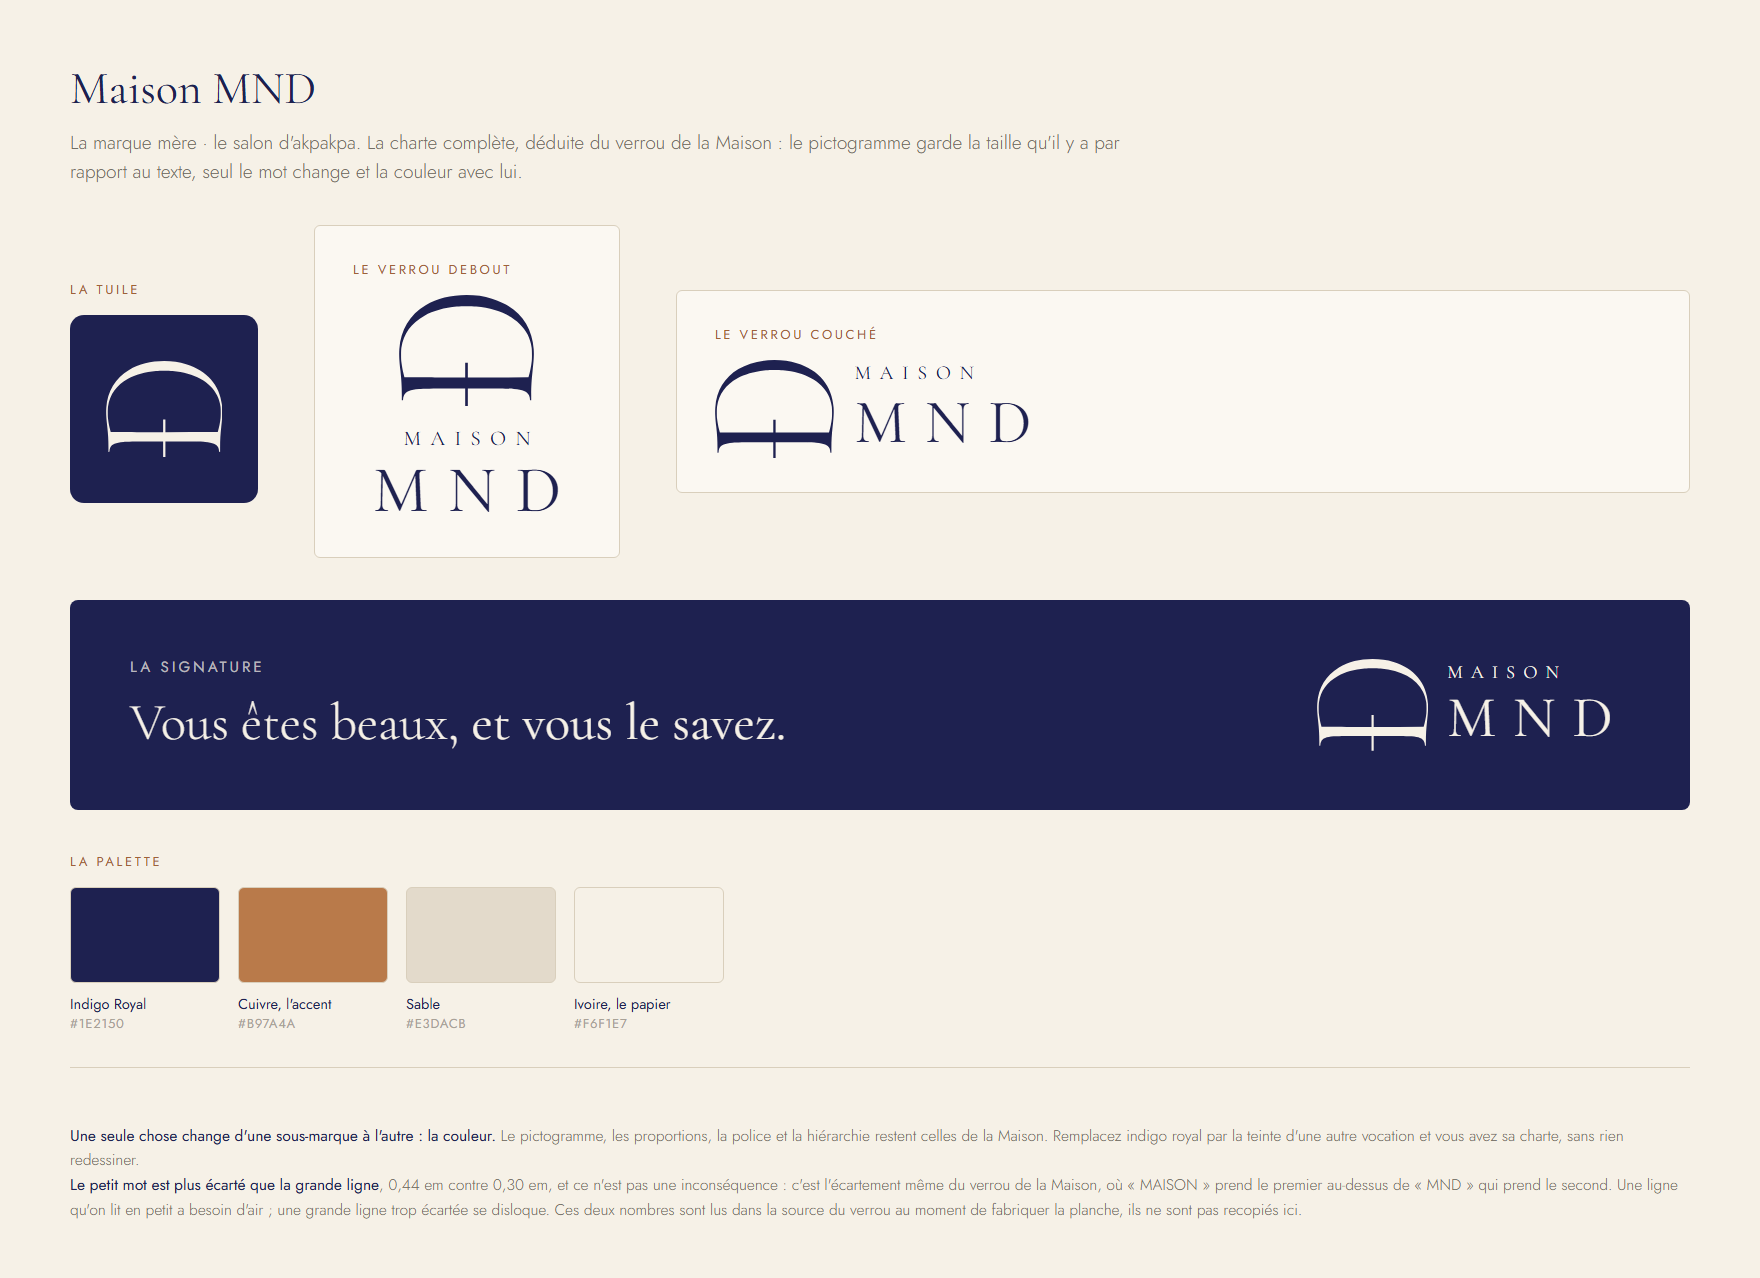
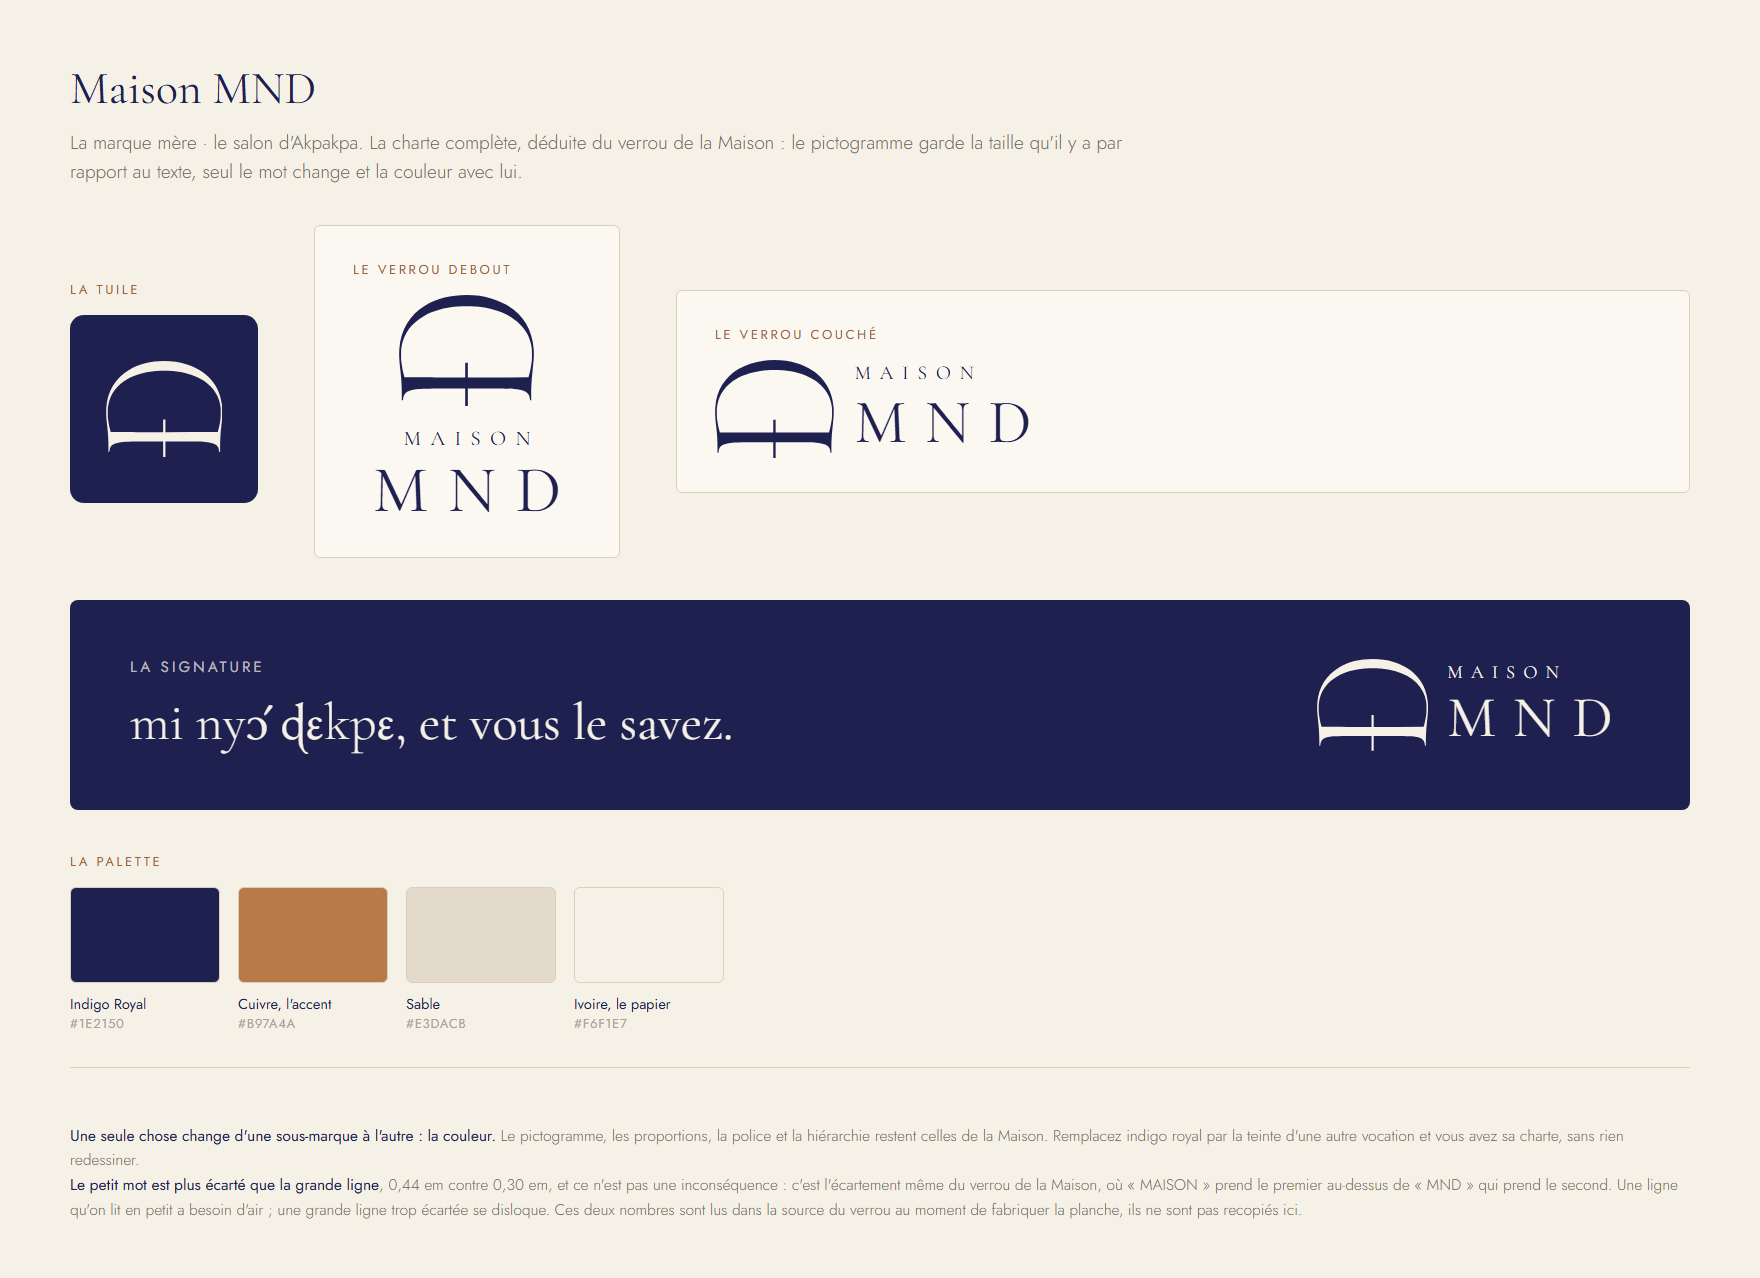
marque et vitrine : la devise en fon sur la charte, et la ligne d'accord retiree
Yeman : « la signature de cette marque change avec le slogan en Fon » et
« supprime la phrase : Des clientes de la Maison, photographiees avec leur
accord sur le site ».

LA CHARTE DE LA MAISON PORTE LA DEVISE, ET NON SA TRADUCTION. La signature
prolonge le fon sans le traduire, une seule phrase a travers deux langues,
comme DEVISE_COMPLETE. Cormorant ne porte ni ɔ ni ɖ ni ɛ, mais la Maison a
taille pour elles un sous-ensemble d'EB Garamond, enferme par unicode-range
aux seules lettres fon : les planches l'embarquent desormais comme le site.
Un controle rend les trois lettres une fois avec cette pile et une fois sans ;
si les deux encres tombent pareil, la police n'a rien dessine et la planche
est refusee. Mesure : 241x198 px avec, 299x179 sans.

La ligne « Des clientes de la Maison, photographiees avec leur accord » quitte
l'accueil. L'ACCORD LUI-MEME NE CHANGE PAS : chaque photo reste inscrite au
registre avant d'etre servie, et le harnais le verifie. C'est l'annonce qui se
tait, pas la regle. Le champ devient facultatif, pour qu'une section sans
ligne ne pose pas un paragraphe vide, et le commentaire du generateur, qui
annoncait encore cinq clientes, est remis a jour.

UN DEFAUT TROUVE EN CHEMIN, ET IL ECRIVAIT MAL LE NOM DE LA MAISON. Les
chapeaux des chartes passaient par `.capitalize()`, qui met la premiere lettre
en capitale ET ECRASE TOUTES LES AUTRES : il sortait « le salon d'akpakpa » et,
[…]

Changed region(s): [[0.1562, 0.0915, 0.625, 0.1221], [0.0625, 0.5493, 0.4375, 0.5798]]

diff --git a/src/apps/revelateur/contenu-types.ts b/src/apps/revelateur/contenu-types.ts
@@ -83,7 +83,11 @@ export type Accueil = {
       et les mots de leurs semblables prouvent ensemble. Chaque fichier est
       inscrit au registre docs/site-revelateur/photos.md avant d'être servi ;
       le harnais le vérifie. Aucun prénom. */
-  couronnes: { sur: string; titre: string; ligne: string; images: string[] };
+  /** `ligne` est FACULTATIVE depuis le 26 septembre 2026 : Yéman l'a
+      retirée du site. L'accord des clientes n'a pas changé, il reste
+      inscrit au registre ; c'est le fait de l'ANNONCER sur la page qui
+      s'arrête. Absente, la section ne pose pas de paragraphe vide. */
+  couronnes: { sur: string; titre: string; ligne?: string; images: string[] };
   portes: { sur: string; titre: string; cartes: { titre: string; ligne: string; suite: string; vers: string; image?: string }[]; repli: string; repliBouton: Lien };
   confiance: { sur: string; citation: string; gages: { titre: string; ligne: string }[] };
   fondateurs: { sur: string; titre: string; ligne: string; message: string; trois: string[]; image: string };

diff --git a/src/apps/revelateur/contenu.ts b/src/apps/revelateur/contenu.ts
@@ -243,7 +243,6 @@ export const ACCUEIL: Accueil = {
   couronnes: {
     sur: 'Nos clientes',
     titre: 'Celles qui nous font confiance.',
-    ligne: 'Des clientes de la Maison, photographiées avec leur accord.',
     /* MÊME ÉCHELLE, OU RIEN — 24 septembre 2026. `cliente-2.jpg` est partie :
        son visage occupait deux fois moins de hauteur que celui de sa voisine,
        et deux cadrages côte à côte se lisent comme un défaut, pas comme une

diff --git a/scripts/fabrique-les-sous-marques.py b/scripts/fabrique-les-sous-marques.py
@@ -177,7 +177,12 @@ def dE(a, b):
 VOCATIONS = [
     ("Maison MND",     "la marque mère · le salon d'Akpakpa",       "Indigo Royal",   "#1E2150",
      "la signature de la Maison",
-     "Vous êtes beaux, ", "et vous le savez."),
+     # LA DEVISE, ET NON SA TRADUCTION. La signature des papiers, des messages
+     # et des murs PROLONGE le fon sans le traduire : une seule phrase a
+     # travers deux langues. C'est `DEVISE_COMPLETE` du code, au caractere
+     # pres. La traduction entiere, « Vous etes beaux, et vous le savez »,
+     # reste la ou l'on rencontre la Maison pour la premiere fois.
+     "mi nyɔ́ ɖɛkpɛ, ", "et vous le savez."),
     ("Académie MND",   "formations, certifications, transmission",  "Vert Savoir",    "#2F5D50",
      "le vert de ce qui s'apprend et se transmet",
      "Former. Transmettre. ", "Affirmer."),
@@ -298,8 +303,14 @@ GAMME, PLUS_FAIBLE, PLUS_SERREE = gamme()
 
 # ══ 3. LE RENDU ═══════════════════════════════════════════════════════
 TRAVAIL = tempfile.mkdtemp(prefix="sous-marques-")
+# LA POLICE DES LETTRES FON VIENT AVEC LES AUTRES. Cormorant et Jost ne
+# portent ni « ɔ », ni « ɖ », ni « ɛ » : la Maison a taillé pour elles un
+# sous-ensemble d'EB Garamond, restreint par `unicode-range` a ces seules
+# lettres. Sans ce fichier, la devise en fon se dessinerait dans une police
+# choisie par la machine, et la ligne changerait de main en son milieu.
 for src, dst in [("src/ds/fonts/cormorant-latin.woff2", "cormorant.woff2"),
                  ("src/ds/fonts/cormorant-latin-ext.woff2", "cormorant-ext.woff2"),
+                 ("src/ds/fonts/devise-fon.woff2", "devise-fon.woff2"),
                  ("src/ds/fonts/jost-latin.woff2", "jost.woff2")]:
     shutil.copyfile(os.path.join(RACINE, src), os.path.join(TRAVAIL, dst))
 
@@ -312,11 +323,17 @@ _TETE = """<!doctype html><html lang="fr"><meta charset="utf-8">
     src:url('cormorant-ext.woff2') format('woff2-variations'),url('cormorant-ext.woff2') format('woff2')}
   @font-face{font-family:'Jost';font-weight:300 700;font-display:block;
     src:url('jost.woff2') format('woff2-variations'),url('jost.woff2') format('woff2')}
+  /* Les lettres fon, et RIEN d'autre : la plage ci-dessous les y enferme, tout
+     le reste du latin continue de venir de Cormorant. C'est pour cela que
+     'MND Fon' peut se poser en tete de la pile sans rien prendre aux autres. */
+  @font-face{font-family:'MND Fon';font-weight:400;font-display:block;
+    src:url('devise-fon.woff2') format('woff2');
+    unicode-range:U+0186,U+0189,U+0190,U+0254,U+025B,U+0256,U+0301}
   :root{--ivoire:#F6F1E7;--sable:#E3DACB;--indigo:#1E2150;--cuivre:#B97A4A;
         --cuivre-s:#9E6238;--doux:#746F65;--filet:#D9CFBC}
   *{box-sizing:border-box;margin:0;padding:0}
   body{background:var(--ivoire);font-family:'Jost',system-ui,sans-serif;color:#22222C}
-  h1{font-family:'Cormorant',Georgia,serif;font-weight:400;color:var(--indigo)}
+  h1{font-family:'MND Fon','Cormorant',Georgia,serif;font-weight:400;color:var(--indigo)}
   .chapeau{color:var(--doux);font-size:19px;font-weight:300;line-height:1.55;max-width:96ch}
   .filet{height:1px;background:var(--filet)}
 
@@ -330,7 +347,7 @@ _TETE = """<!doctype html><html lang="fr"><meta charset="utf-8">
   .verrou{display:flex;align-items:center;gap:%(ecartPicto).4fem}
   .verrou svg{height:%(hautPicto).4fem;width:auto;display:block;flex:none}
   .mots{display:flex;flex-direction:column;align-items:flex-start}
-  .maison-de,.vocation{font-family:'Cormorant',Georgia,serif;font-weight:400;
+  .maison-de,.vocation{font-family:'MND Fon','Cormorant',Georgia,serif;font-weight:400;
                        line-height:1;white-space:nowrap}
   .maison-de{font-size:%(partMaison).4fem;letter-spacing:%(ecartMaison).2fem;
              margin-bottom:%(entreEnEmDuPetit).4fem}
@@ -592,6 +609,35 @@ def eprouve_le_blanc_entre_les_lignes():
     return a_nous, du_site
 
 
+def eprouve_la_police_fon():
+    """LA POLICE DES LETTRES FON EST-ELLE VRAIMENT EMPLOYEE ?
+
+    Declarer une @font-face ne prouve rien : si le fichier manque, si la plage
+    `unicode-range` se trompe d'un point de code, ou si le nom de famille est
+    mal ecrit, le navigateur se rabat sans un mot sur une police du systeme et
+    la ligne sort quand meme. Elle sort simplement d'une AUTRE main, et
+    personne ne le voit sur une capture.
+
+    On rend donc les trois lettres deux fois : une fois dans la pile
+    « 'MND Fon', monospace », une fois en monospace seul. Le repli du second
+    est une chasse fixe, tres loin d'une Garamond : si les deux encres tombent
+    pareil, c'est que 'MND Fon' n'a rien dessine."""
+    def encre(pile):
+        page = tete() + ("""
+<style>body{background:#fff;margin:0}</style>
+<div style="font-family:%s;font-size:200px;color:#000;padding:40px;display:inline-block">ɔɖɛ</div>
+</html>""" % pile)
+        im = rends("sonde-fon-" + pile.split(",")[0].strip("'").replace(" ", ""), page, 1400, 500)
+        a = np.asarray(im.convert("L"), dtype=int) < 128
+        ys, xs = np.where(a)
+        assert ys.size, "la sonde du fon n'a rien dessine avec la pile %s" % pile
+        return int(xs.max() - xs.min() + 1), int(ys.max() - ys.min() + 1), int(a.sum())
+
+    avec = encre("'MND Fon', monospace")
+    sans = encre("monospace")
+    return avec, sans
+
+
 def eprouve_les_ecartements():
     """LES ECARTEMENTS DE LA FEUILLE DE STYLE SONT-ILS CEUX DE LA SOURCE ?
 
@@ -689,7 +735,7 @@ def planche_ensemble(large_debout):
   .grille{{display:grid;grid-template-columns:repeat(2,1fr);gap:34px 64px;margin-top:36px}}
   .case{{display:flex;flex-direction:column;gap:2px}}
   .haut{{display:flex;align-items:center;gap:30px}}
-  .nom{{font-family:'Cormorant',Georgia,serif;font-size:29px;color:var(--indigo);margin-top:16px;line-height:1.1}}
+  .nom{{font-family:'MND Fon','Cormorant',Georgia,serif;font-size:29px;color:var(--indigo);margin-top:16px;line-height:1.1}}
   .voc{{font-size:13px;letter-spacing:.16em;text-transform:uppercase;color:var(--cuivre-s);margin-top:6px}}
   .hex{{font-size:13px;color:#A8A196;margin-top:4px;letter-spacing:.06em}}
   .pq{{font-size:14.5px;color:var(--doux);margin-top:8px;line-height:1.5;font-weight:300}}
@@ -723,6 +769,17 @@ def planche_ensemble(large_debout):
     seuil, l'œil les confondrait sur une tuile de soixante pixels.
   </p>
 </div></html>"""
+
+
+def majuscule(t):
+    """La premiere lettre en capitale, ET RIEN D'AUTRE.
+
+    `.capitalize()` met la premiere en capitale et ECRASE toutes les suivantes.
+    Les chapeaux sortaient « le salon d'akpakpa » et, deux fois, « la maison
+    vient a vous » : le nom de la Maison ecrit en minuscule sur sa propre
+    charte. Le controle d'en bas refuse desormais de livrer une planche qui
+    l'ecrit ainsi."""
+    return t[:1].upper() + t[1:]
 
 
 def sans_accent(t):
@@ -847,7 +904,7 @@ def planche_charte(g, large_debout):
   .encadre{{border:1px solid var(--filet);border-radius:6px;background:#FBF8F2;padding:34px 38px}}
   .bande{{margin-top:42px;background:{C};border-radius:8px;padding:56px 60px;color:var(--ivoire);
           display:flex;align-items:center;justify-content:space-between;gap:60px}}
-  .sign{{font-family:'Cormorant',Georgia,serif;font-size:52px;line-height:1.18;font-weight:300}}
+  .sign{{font-family:'MND Fon','Cormorant',Georgia,serif;font-size:52px;line-height:1.18;font-weight:300}}
   .sign b{{font-weight:400}}
   .dit{{font-size:15px;letter-spacing:.2em;text-transform:uppercase;color:rgba(246,241,231,.72);margin-bottom:14px}}
   .palette{{display:flex;gap:18px;margin-top:38px}}
@@ -865,7 +922,7 @@ def planche_charte(g, large_debout):
 <div class="page">
   <h1 style="font-size:46px">{g['nom']}</h1>
   <p class="chapeau" style="margin-top:12px">
-    {g['vocation'].capitalize()}. La charte complète, déduite du verrou de la Maison : le
+    {majuscule(g['vocation'])}. La charte complète, déduite du verrou de la Maison : le
     pictogramme garde la taille qu'il y a par rapport au texte, seul le mot change et la
     couleur avec lui.
   </p>
@@ -947,6 +1004,13 @@ def principal():
         if ecart_nav > 3:
             raise SystemExit("  le navigateur n'interpole pas comme on le calcule.")
 
+        avec, sans = eprouve_la_police_fon()
+        print("  lettres fon : %dx%d px et %d pixels d'encre avec la police de la Maison, "
+              "%dx%d et %d sans" % (*avec, *sans))
+        if avec == sans:
+            raise SystemExit("  la police des lettres fon n'est pas employee : "
+                             "la devise sortirait d'une autre main.")
+
         for cle, feuille, source in eprouve_les_ecartements():
             print("  %-12s : %d px pose par la feuille, %d px tire de la source"
                   % (cle, feuille, source))
@@ -990,7 +1054,19 @@ def principal():
         # si l'une demandait un reglage a elle, la regle ne tiendrait pas.
         for i, g in enumerate(GAMME, start=1):
             nom = nom_de_fichier(g["nom"])
-            im = rends_et_ajuste(nom, planche_charte(g, large_debout), 1760)
+            page = planche_charte(g, large_debout)
+            # LE NOM DE LA MAISON NE S'ECRIT PAS EN MINUSCULE. Un `.capitalize()`
+            # mal place l'avait fait deux fois, sur les chartes de la Boutique et
+            # du Domicile, et personne ne l'aurait vu en regardant les planches
+            # en petit.
+            # On ecarte « maisonmnd.com » par son MND, et non par le point
+            # qui le suit : un premier jet excluait tout « maison. », donc
+            # aussi la fin de phrase, et la charte de la Boutique passait.
+            minuscules = re.findall(r"(?<![-\w])maison(?!mnd)(?![-\w])", page)
+            if minuscules:
+                raise SystemExit("  la charte %s ecrit « maison » en minuscule "
+                                 "(%d fois)." % (g["nom"], len(minuscules)))
+            im = rends_et_ajuste(nom, page, 1760)
             for d in g["degrades"]:
                 sous = contraste_le_long(d["arrets"], 0.0, PART_DU_BAIN_QUI_PORTE_L_ENCRE)
                 partout = contraste_le_long(d["arrets"])
